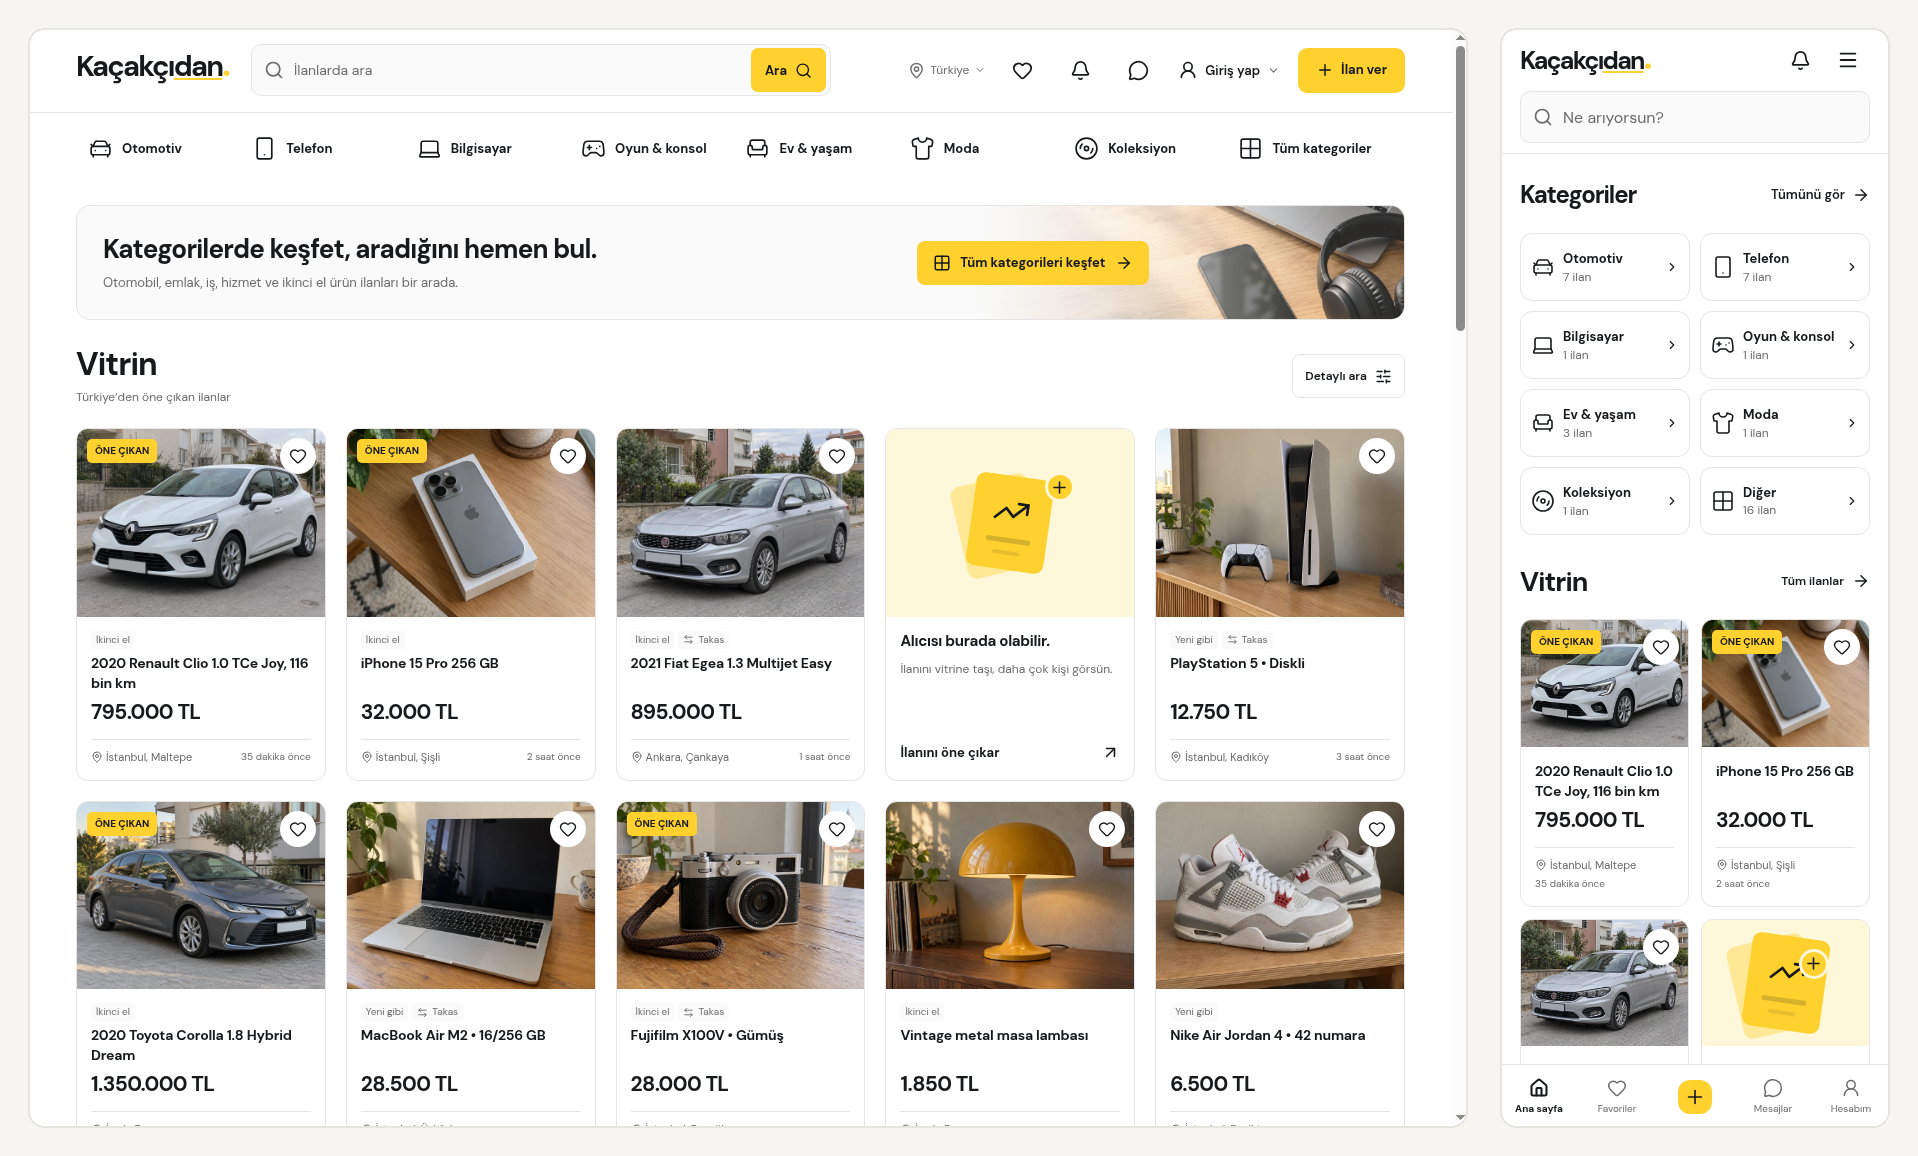
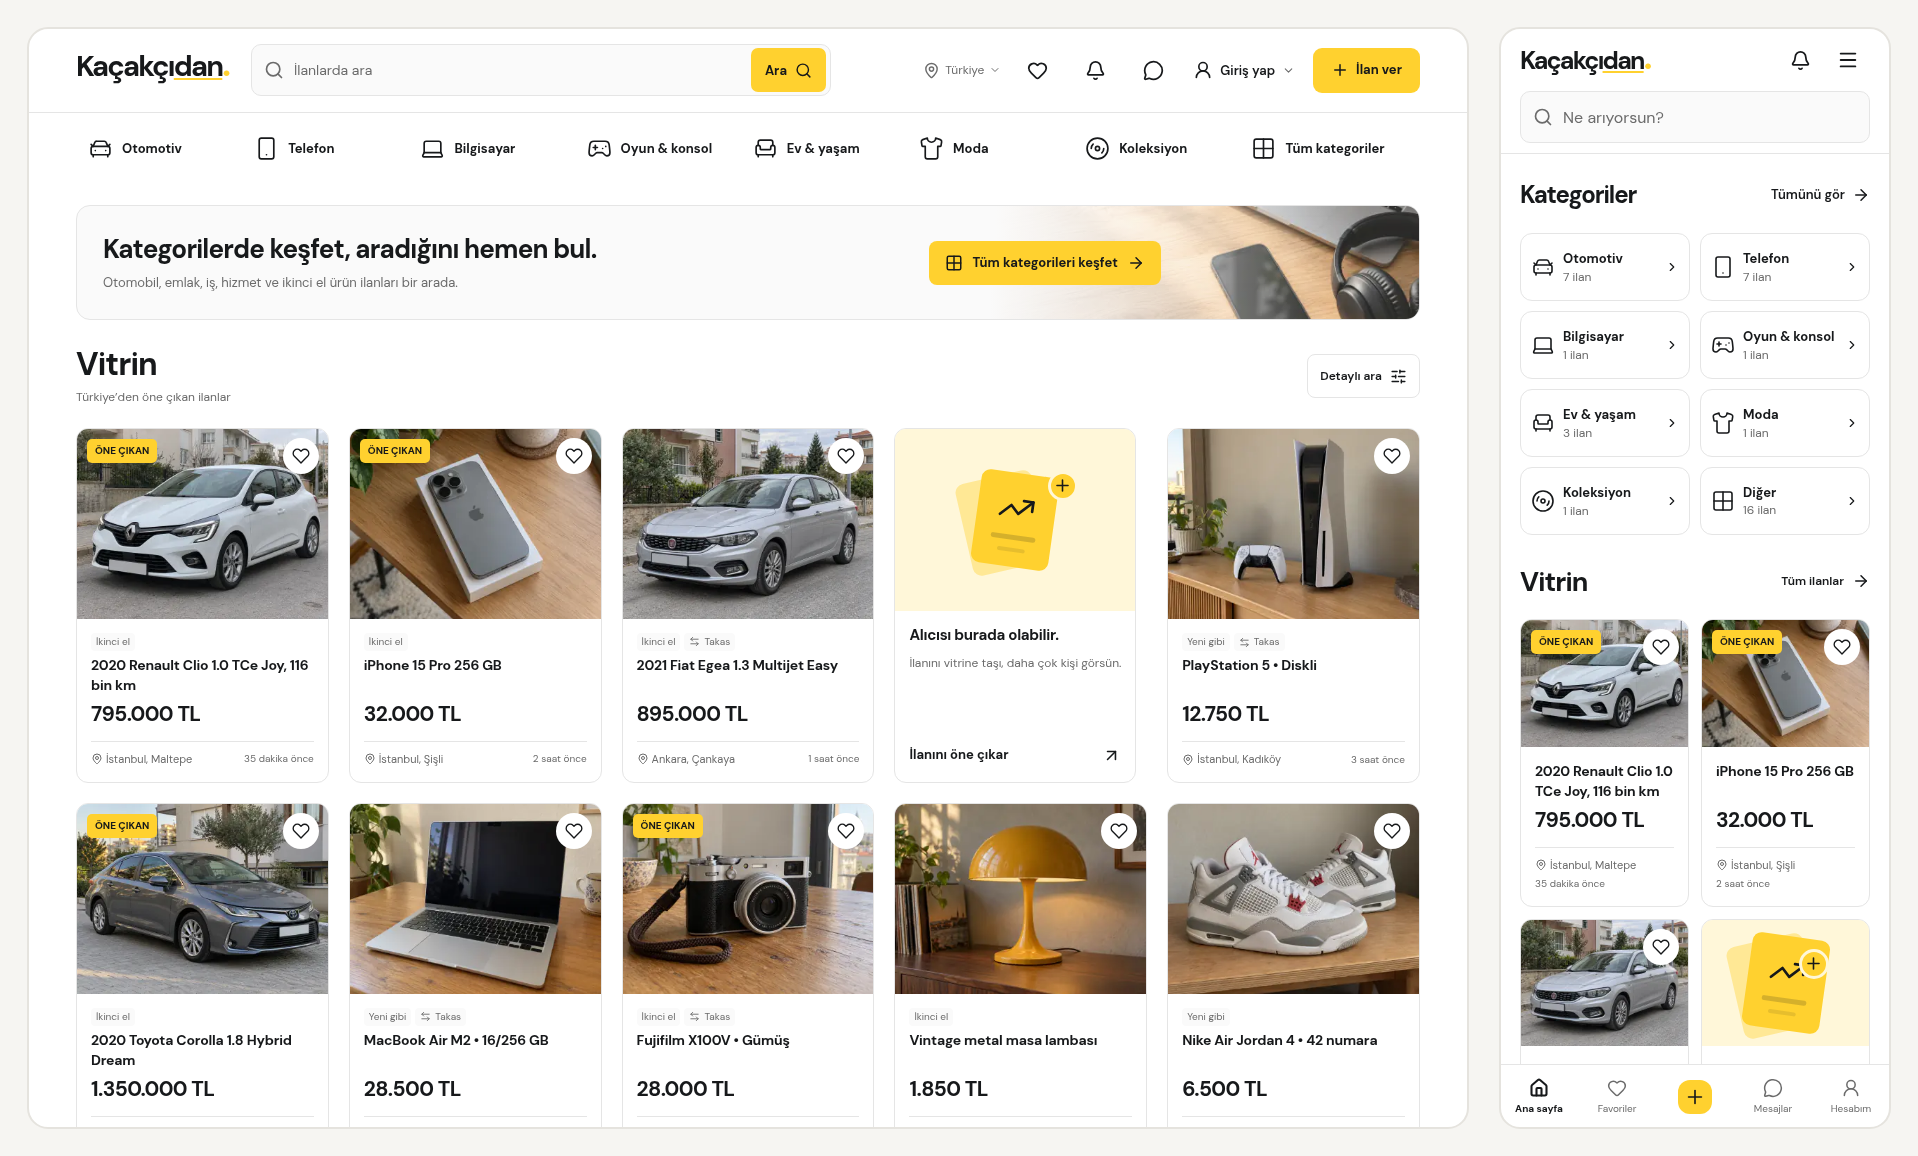
Kaçakçıdan - Proje anlatımı ve ekran görüntüleri güncellendi

diff --git a/app/+html.tsx b/app/+html.tsx
@@ -29,6 +29,7 @@ export default function Html({ children, pathname }: PropsWithChildren<{ pathnam
     <html {...htmlAttributes} lang="tr">
       <head>
         <meta charSet="utf-8" />
+        <meta name="author" content="Teşkilatsız" />
         <meta name="color-scheme" content="light dark" />
         <style dangerouslySetInnerHTML={{ __html: temaCss }} />
         <script dangerouslySetInnerHTML={{ __html: temaBaslat }} />

diff --git a/README.md b/README.md
@@ -22,32 +22,34 @@
 
 ## Proje
 
-Kaçakçıdan; ikinci el ürün, araç, emlak, iş ve hizmet ilanlarını bir araya getiren bir pazar yeri arayüzüdür. Kategori ve arama üzerinden ilanlara ulaşabilir, ayrıntıları inceleyebilir ve ilan sahibiyle iletişim kurabilirsiniz.
+Kaçakçıdan, ikinci el ürünlerin yanında araç, emlak, iş ve hizmet ilanlarını da kapsayan bir pazar yeri arayüzü. Web, iOS ve Android için aynı kod tabanını kullanıyor.
 
-İlan ararken kategori içinde kaybolmamak, iki ürünün farkını görebilmek ve eksik bir bilgiyi fark etmek benim için tasarımın temel parçaları. Sayfaları, menüleri ve formları bu işlerin etrafında düzenledim.
+Bu projede en çok ilan arama ve inceleme akışına odaklandım. Aranan modele birkaç seçimle ulaşmak, fiyatları karşılaştırırken iki sayfa arasında gidip gelmemek ve ürünün hangi bilgisinin eksik olduğunu görebilmek tasarım kararlarını belirledi. Küçük ekranlarda da aynı işleri rahatça yapabilmek için menülerin, formların ve ilan ayrıntılarının yerleşimi ekran boyutuna göre değişiyor.
 
 ## Kullanım
 
-- Kategori, alt kategori, marka ve model seçimi; arama önerileri ve ürün türüne uygun filtreler
-- Son bakılan aynı türdeki ilanla fiyat ve özellik karşılaştırması; yalnızca farkları görme
-- Fotoğraf ve video galerisi, favoriler, mesajlar ve ilan hakkında soru-cevap
-- Ürüne göre durum bilgileri, ilgili bilgiye fotoğraf ekleme ve satıcı beyanını inceleme
-- Bütçeyle alım talebi oluşturma, uygun ilanları görme ve kendi ilanıyla yanıt verme
-- Adımlı ilan oluşturma ve düzenleme; profil, hesap ayarları, açık ve koyu tema
+- Kategoriden alt kategoriye, marka ve modele ilerleme, yazarken arama önerileri ve ürüne uygun filtreler
+- Aynı türdeki son bakılan ilanla fiyat ve özellik karşılaştırması, yalnızca farklı bilgileri gösterme
+- Fotoğraf yakınlaştırma, video oynatma, favoriler, mesajlaşma ve ilan hakkında soru-cevap
+- Ürünün kullanım ve onarım bilgileri, bu bilgilere bağlı fotoğraflar
+- Bütçe ve konum belirterek alım talebi açma, uygun ilanları görme ve kendi ilanıyla yanıt verme
+- Adımlı ilan oluşturma ve düzenleme, ilan yönetimi, profil ve hesap ayarları, açık ve koyu tema
 
 ## Kullanıcı deneyimi
 
-Masaüstünde ilan görseli, fiyat ve özellikler yan yana durur. Telefonda içerik tek sütuna geçer; özellikler ve sorular sekmelerden açılır. Aynı ürün türündeki başka bir ilana bakıldığında önceki ilanla karşılaştırma önerilir. Pencere kendiliğinden açılmaz; kullanıcı ilanı incelemeye devam edebilir.
+Ana sayfada kategoriler ve vitrindeki ilanlar hemen görünür. Kategori seçtikçe alt seçenekler aynı menüde ilerler, seçim yolu görünür kalır. Arama alanı da kategori, marka, model ve anahtar kelime önerileriyle bu akışa katılır.
 
-Filtreler seçilen ürüne göre değişir. Telefonda pil sağlığı ve ekran değişimi, bilgisayarda batarya ve donanım, mobilyada ölçüler ve kusurlar ayrı alanlardır. Bilgi yazılmamışsa sağlam ya da sorunsuz kabul edilmez. Satıcının yazdığı bilgiyle eklediği fotoğraf da bağımsız doğrulamadan ayrı tutulur. Gerçek değerlendirme kaydı olmadan satıcı puanı gösterilmez.
+Masaüstünde ilan görselinin yanında fiyat ve özellikler bulunur. Telefonda içerik tek sütuna geçer, özellikler ve sorular sekmelerden açılır. Başka bir ilana bakıldığında aynı türdeki önceki ilanla karşılaştırma önerilir. Karşılaştırmayı açıp yalnızca farkları görmek ya da öneriyi kapatıp ilana devam etmek kullanıcıya kalır.
 
-Formlar kısa adımlara bölünür. Açılır menüler küçük ekranlarda pencere olarak açılır; klavye açıldığında odaktaki alan görünür tutulur. Dokunma alanları, klavyeyle gezinme, pencereyi kapatma ve kapatınca önceki odağa dönme ortak bileşenlerde ele alınır.
+Filtreler ürün türüne göre değişir. Telefonda pil sağlığı ve ekran değişimi, bilgisayarda batarya ve donanım, mobilyada ölçüler ve kusurlar için ayrı alanlar var. Yazılmamış bir bilgi sağlam ya da sorunsuz kabul edilmez. İlan sahibinin beyanı ve eklediği fotoğraf açıkça gösterilir, değerlendirme kaydı olmadan satıcıya puan verilmez.
+
+İlan formu kısa adımlara ayrılır, eksik bilgi ilgili alanın yanında belirtilir. Ürün durumu ayrı bir adımda doldurulur; kaydı bulunan modellerde üretici belgesindeki sabit özellikler otomatik gelir ve değiştirilemez, depolama ve renk gibi seçenekleri ilan sahibi seçer. Uzun seçenek listelerinde arama yapılabilir, açılır menüler küçük ekranlarda pencereye dönüşür. Klavye açıldığında formun ve mesaj alanının görünür kalması için tarayıcının kullanılabilir yüksekliği takip edilir. Klavyeyle gezinme, odak göstergeleri ve pencere kapandığında önceki alana dönme ortak bileşenlerde düzenlenir.
 
 ## Performans
 
-İlan görsellerinin farklı ekran boyutlarına uygun WebP kopyaları derleme sırasında hazırlanır. İlk ekranda görünen görsellere öncelik verilir; uzaktakiler gecikmeli yüklenir. Galeri önizlemeleri ve paylaşım görselleri ayrı boyutlarda tutulur.
+Görsellerin farklı ekran boyutlarına uygun WebP kopyaları derleme sırasında hazırlanır. İlk ekrandaki görsellere öncelik verilir, sayfanın aşağısındakiler ihtiyaç olduğunda yüklenir. Görsel alanları önceden ayrıldığı için fotoğraf yüklenirken kartların yerleşimi değişmez. Galeri önizlemeleri için de tam boy fotoğraflar indirilmez.
 
-Web sayfaları önceden HTML olarak üretilir. Ekran kodları parçalara ayrılır; arama sonuçları yazma sırasında ertelenerek hesaplanır. Animasyonlar kısa tutulur ve cihazın azaltılmış hareket tercihi izlenir. Karşılaştırma geçmişi en fazla 20 ilan kimliği ve tarihinden oluşur; fotoğraflar bu kayda kopyalanmaz.
+Web sayfaları önceden HTML olarak üretilir, ekran kodları ayrı parçalarda yüklenir. Arama sonucu hesaplamaları yazmayı bekletmeyecek şekilde ertelenir. Geçişler kısa tutulur ve cihazın azaltılmış hareket tercihi izlenir. Karşılaştırma geçmişinde en fazla 20 ilanın kimliği ve bakılma tarihi saklanır, fotoğrafları kopyalanmaz.
 
 ## Yerelde çalıştırma
 
@@ -88,9 +90,9 @@ screenshots/            README ekran görüntüleri
 
 ## Veri saklama
 
-Bu depoda sunucu bağlantısı bulunmuyor. Hesap, ilan, favori, mesaj ve alım talebi kayıtları kullanıldıkları tarayıcıda veya cihazda saklanır; cihazlar arasında eşitlenmez. Alım taleplerine aynı cihazdaki başka bir hesapla yanıt verilebilir. Ödeme, kargo takibi, kimlik doğrulama ve doğrulanmış satış altyapısı yoktur.
+Bu depo uygulamanın ön yüzünü içeriyor. Hesap, ilan, favori, mesaj ve alım talebi kayıtları kullanıldıkları tarayıcıda veya cihazda saklanır. Alım talepleri aynı cihazda açılan başka bir hesapla yanıtlanabilir. Mesaj ekranındaki yazışmalar ise hesaba kaydedilir, karşı tarafa iletilmez. Kayıtlar başka cihazlara aktarılmaz. Merkezi üyelik, ödeme, kargo takibi ve bağımsız satıcı doğrulaması için sunucu hizmeti bulunmuyor.
 
-Göz atma geçmişi hesaplara göre ayrılır, 30 günden eski kayıtlar kullanılmaz ve karşılaştırma penceresinden temizlenebilir. Tarayıcı ya da uygulama verilerini temizlemek diğer yerel kayıtları da siler.
+Göz atma geçmişi hesaplara göre ayrılır, 30 günden eski kayıtlar kullanılmaz. Karşılaştırma penceresinden bu geçmiş temizlenebilir. Tarayıcı ya da uygulama verilerini temizlemek diğer yerel kayıtları da siler.
 
 ## Lisans
 
